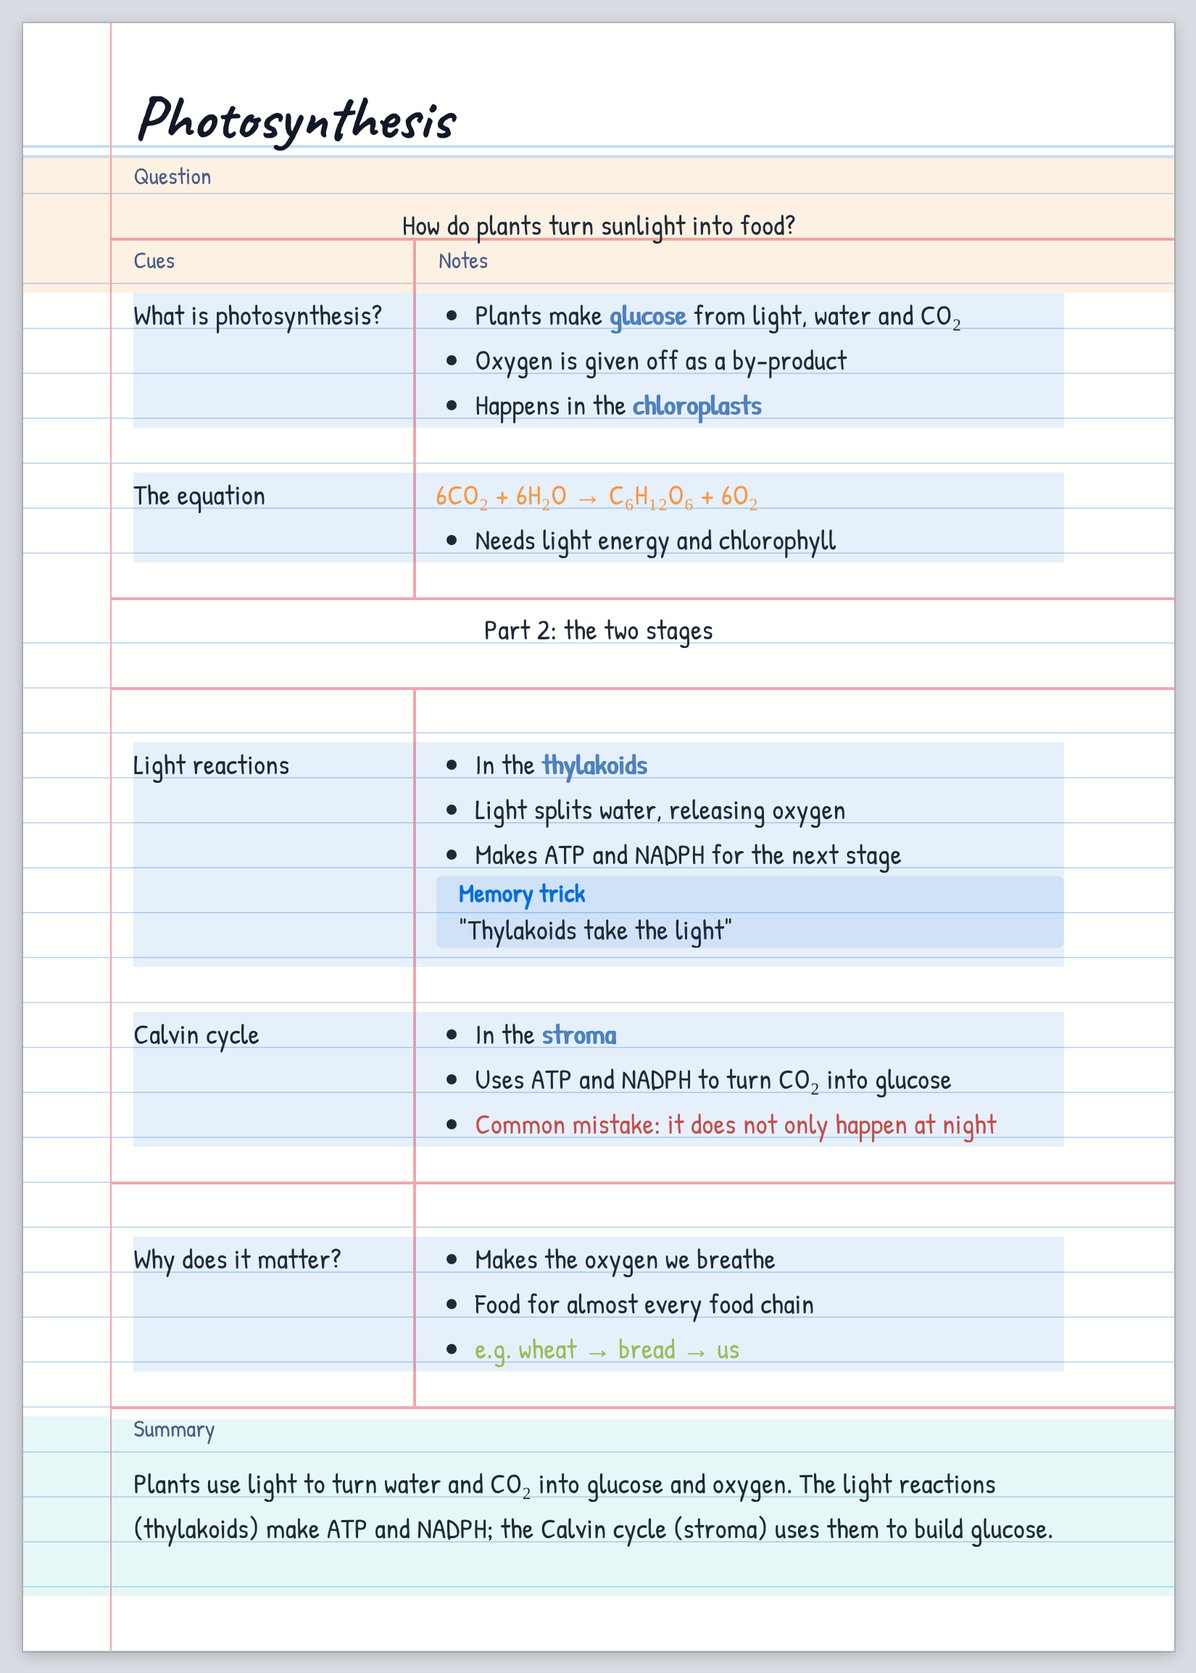
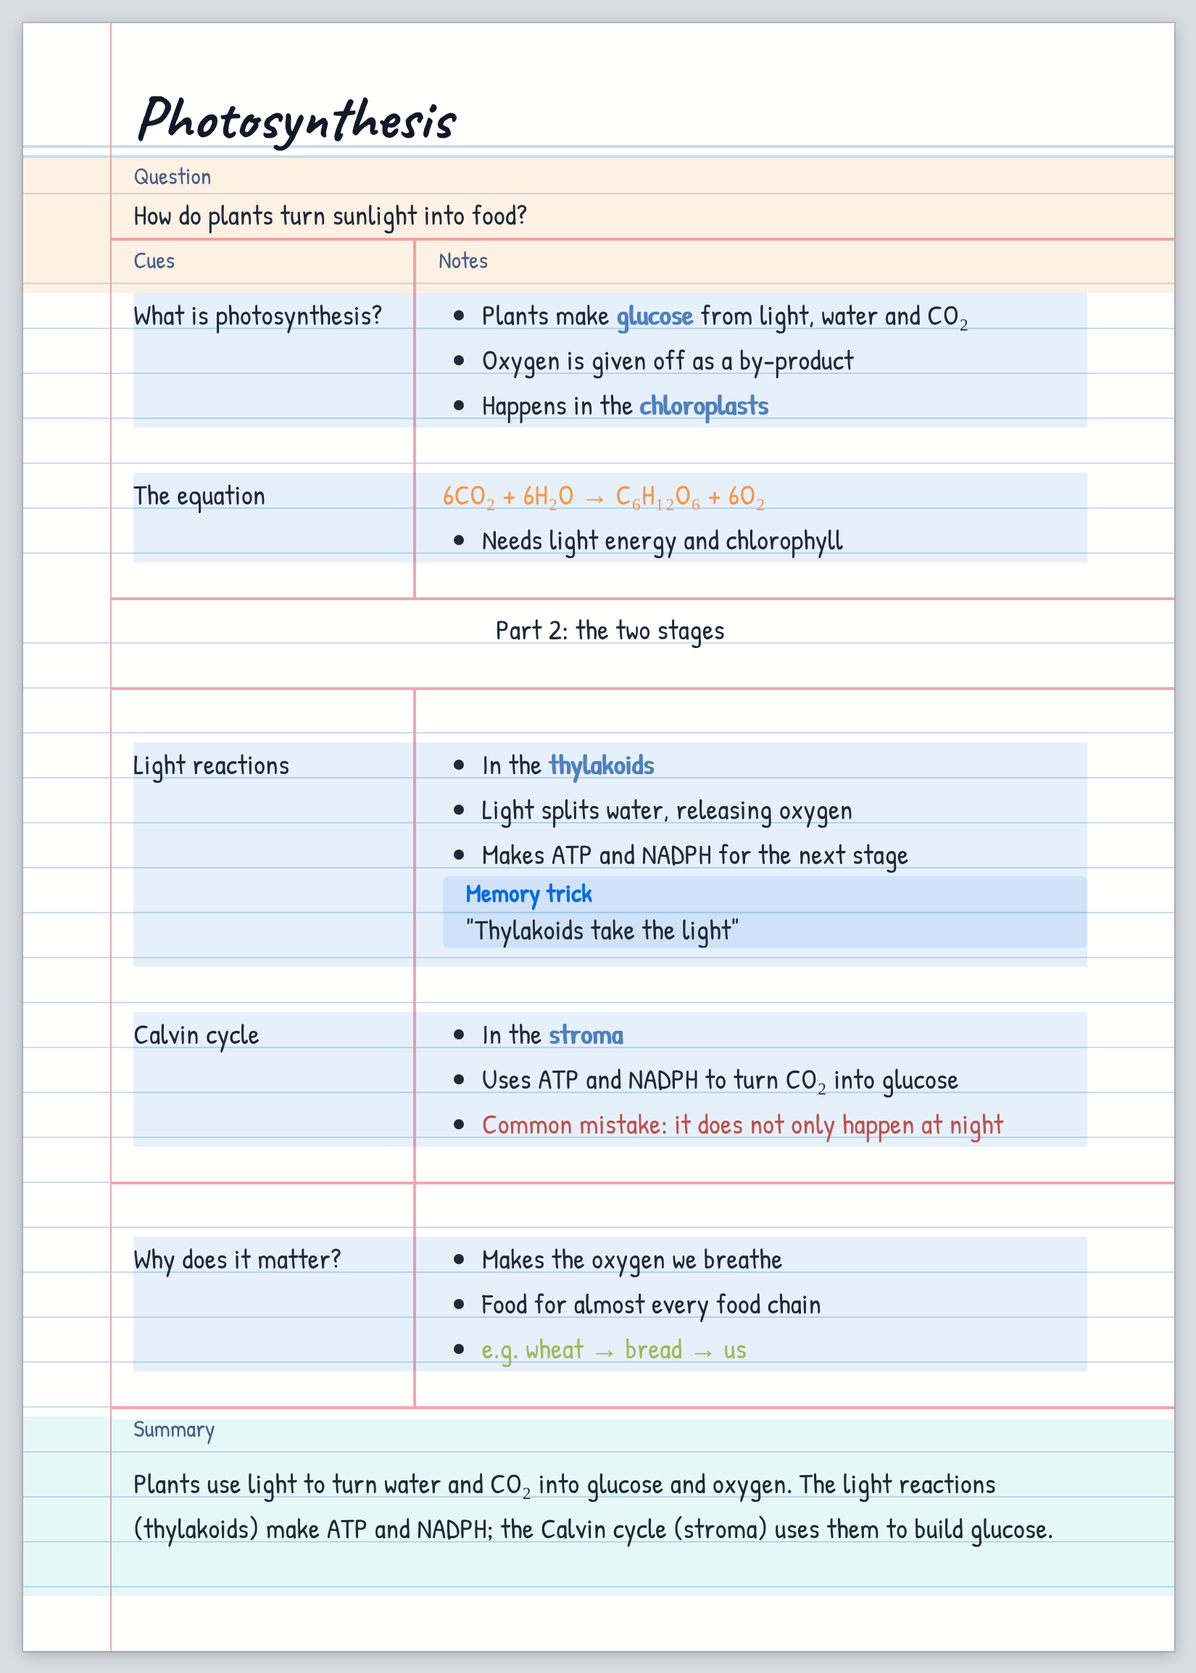
Right margin mirrors the red line's margin; question lines centred in their own row
Claude-Session: https://claude.ai/code/session_017nigWqws9EFca1zJKhGji6

diff --git a/styles.css b/styles.css
@@ -146,11 +146,21 @@ settings:
         step: 0.05
     -
         id: lp-pad-x
-        title: Page margin (left and right)
-        description: Space from the page edge to the text. The red margin line sits "Margin line gap" to the left of the text.
+        title: Page margin (left)
+        description: Space from the left page edge to the text. The red margin line sits "Margin line gap" to the left of the text.
         type: variable-number-slider
         default: 76
         min: 40
+        max: 200
+        step: 2
+        format: px
+    -
+        id: lp-pad-r
+        title: Page margin (right)
+        description: Space from the text to the right page edge. By default the same as the red margin line's distance from the left edge, so a double-sided page can be hole-punched on either side.
+        type: variable-number-slider
+        default: 60
+        min: 20
         max: 200
         step: 2
         format: px
@@ -516,6 +526,8 @@ settings:
   --pad-x: var(--lp-pad-x, 76px);            /* page edge → text */
   --margin-gap: var(--lp-margin-gap, 16px);  /* red line → text */
   --margin-x: calc(var(--pad-x) - var(--margin-gap));   /* where the red line is (derived) */
+  --pad-r: var(--lp-pad-r, var(--margin-x));  /* text → right page edge: the red line's margin mirrored, so a
+                                                 double-sided page can be hole-punched on either side */
 
   --hand: var(--lp-hand, "Patrick Hand"), "Segoe Print", "Bradley Hand", "Chalkboard SE", cursive;
   --hand-title: var(--lp-hand-title, "Caveat"), "Patrick Hand", "Segoe Print", "Bradley Hand", cursive;
@@ -585,7 +597,7 @@ settings:
   max-width: none !important;
   width: 100% !important;
   margin: 0 !important;
-  padding: 0 var(--pad-x) var(--line) !important;
+  padding: 0 var(--pad-r) var(--line) var(--pad-x) !important;
   box-sizing: border-box;
 }
 
@@ -1047,7 +1059,7 @@ settings:
   display: block;
   box-sizing: border-box;
   height: calc(var(--line) * var(--bar-lines));
-  margin: 0 calc(var(--pad-x) * -1) !important;
+  margin: 0 calc(var(--pad-r) * -1) 0 calc(var(--pad-x) * -1) !important;
   padding: var(--title-drop) 200px 0 var(--pad-x) !important;   /* (top: the title sits low, on its line) */
   line-height: calc(var(--line) * (var(--bar-lines) - 0.4)) !important;
   background-color: var(--bar);
@@ -1144,7 +1156,8 @@ html body .lined-paper h1.lp-title-wrap.lp-title-wrap {
     min-height: calc(297mm - 1px) !important;            /* one full page, so a summary sits at its bottom */
     overflow: visible !important;
     margin: 0 !important;
-    padding: var(--head-h) var(--pad-x) calc(var(--tail-print) - 0.5px) !important;
+    padding: var(--head-h) var(--pad-r) calc(var(--tail-print) - 0.5px) var(--pad-x) !important;
+    padding-right: calc(var(--pad-r) + var(--print-trim, 0.25px)) !important;   /* (the PDF's text is a hair narrower than on screen: a line that only just fits on screen wraps in the PDF too) */
     -webkit-box-decoration-break: clone;
     box-decoration-break: clone;
     background: var(--paper) !important;   /* plain colour; the lines are the fixed layer below */
@@ -2975,11 +2988,6 @@ settings:
         description: The text of [!question] starts on the left. Switch this on to centre it on the line.
         type: class-toggle
     -
-        id: cn-question-top
-        title: Question on its first line
-        description: The text of [!question] is centred in the height of its rows. Switch this on to start it on the first row instead (useful with more than one question line).
-        type: class-toggle
-    -
         id: cn-wide-left
         title: Full-width lines on the left
         description: The text of [!wide] is centred. Switch this on to start it on the left instead.
@@ -3411,7 +3419,7 @@ settings:
   z-index: 15;
   box-sizing: border-box;
   min-height: calc(var(--line) * (var(--summary-lines) + 1));
-  padding: 0 var(--pad-x) !important;
+  padding: 0 var(--pad-r) 0 var(--pad-x) !important;
   /* the page's red margin line keeps running through the summary;
      the cue/notes divider stops at the summary's rule */
   background:
@@ -3499,8 +3507,8 @@ settings:
   display: block;
   box-sizing: border-box;
   min-height: calc(var(--line) * (var(--question-lines) + 2));
-  margin: 0 calc(var(--pad-x) * -1) !important;
-  padding: 0 var(--pad-x) var(--line) !important;
+  margin: 0 calc(var(--pad-r) * -1) 0 calc(var(--pad-x) * -1) !important;
+  padding: 0 var(--pad-r) var(--line) var(--pad-x) !important;
   border: 0 !important;
   border-radius: 0;
   mix-blend-mode: normal;
@@ -3562,8 +3570,8 @@ settings:
   display: block;
   box-sizing: border-box;
   min-height: calc(var(--line) * var(--wide-lines));
-  margin: var(--line) calc(var(--pad-x) * -1) !important;
-  padding: 0 var(--pad-x) !important;
+  margin: var(--line) calc(var(--pad-r) * -1) var(--line) calc(var(--pad-x) * -1) !important;
+  padding: 0 var(--pad-r) 0 var(--pad-x) !important;
   border: 0 !important;
   border-radius: 0 !important;
   mix-blend-mode: normal !important;
@@ -4105,7 +4113,7 @@ html body .lined-paper .callout.callout.callout[data-callout="divider"] {
   min-height: 0 !important;
   /* (1px of padding keeps the blank line above and the one below apart: a box with nothing in it
      would merge them into one) */
-  margin: var(--line) calc(var(--pad-x) * -1) calc(var(--line) - 1px) !important;
+  margin: var(--line) calc(var(--pad-r) * -1) calc(var(--line) - 1px) calc(var(--pad-x) * -1) !important;
   padding: 1px 0 0 !important;
   border: 0 !important;
   border-radius: 0 !important;
@@ -4146,8 +4154,8 @@ html body .markdown-source-view.lined-paper .callout.callout.callout[data-callou
    THE QUESTION AND FULL-WIDTH LINES: ALIGNMENT
    =====================================================================
    [!wide]: centred on the page ("Full-width lines on the left" puts it back on the left).
-   [!question]: on the left, in the middle of its rows ("Centre the question across the page" centres
-   it on the line; "Question on its first line" starts it on the first row instead of the middle rows).
+   [!question]: on the left, each line in the middle of its row ("Centre the question across the
+   page" centres it on the line).
    A list in them keeps its bullets next to its text. Callouts inside them keep their own alignment. */
 :is(body:not(.cn-wide-left) .lined-paper.cornell .callout[data-callout="wide"], body.cn-question-centre .lined-paper.cornell .callout[data-callout="question"]) > .callout-content > :is(p, h2, h3, h4, h5, h6, ul, ol) {
   text-align: center !important;
@@ -4160,22 +4168,12 @@ html body .markdown-source-view.lined-paper .callout.callout.callout[data-callou
   text-align: center !important;
 }
 
-/* The question's text is centred in the height: its lines fill the rows between the "Question"
-   label and the red rule, the text in the middle of them, each line centred between its two ruled
-   lines (not sitting on the lower one) */
+/* The question's text is centred in the height of the row it is on: each line in the middle
+   between its two ruled lines (not sitting on the lower one), starting on the first row */
 .markdown-preview-view.lined-paper.cornell .callout[data-callout="question"] > .callout-content {
-  display: flex;
-  flex-direction: column;
-  justify-content: center;
-  box-sizing: border-box;
-  min-height: calc(var(--line) * var(--question-lines));
   position: relative;
   top: var(--title-nudge);
 }
 .markdown-preview-view.lined-paper.cornell .callout[data-callout="question"] > .callout-content > * {
   margin-block: 0 !important;
-}
-/* "Question on its first line": the text starts on the first row (each line still in the middle of its row) */
-body.cn-question-top .markdown-preview-view.lined-paper.cornell .callout[data-callout="question"] > .callout-content {
-  justify-content: flex-start;
 }

diff --git a/snippets/cornell-notes.css b/snippets/cornell-notes.css
@@ -132,11 +132,6 @@ settings:
         description: The text of [!question] starts on the left. Switch this on to centre it on the line.
         type: class-toggle
     -
-        id: cn-question-top
-        title: Question on its first line
-        description: The text of [!question] is centred in the height of its rows. Switch this on to start it on the first row instead (useful with more than one question line).
-        type: class-toggle
-    -
         id: cn-wide-left
         title: Full-width lines on the left
         description: The text of [!wide] is centred. Switch this on to start it on the left instead.
@@ -568,7 +563,7 @@ settings:
   z-index: 15;
   box-sizing: border-box;
   min-height: calc(var(--line) * (var(--summary-lines) + 1));
-  padding: 0 var(--pad-x) !important;
+  padding: 0 var(--pad-r) 0 var(--pad-x) !important;
   /* the page's red margin line keeps running through the summary;
      the cue/notes divider stops at the summary's rule */
   background:
@@ -656,8 +651,8 @@ settings:
   display: block;
   box-sizing: border-box;
   min-height: calc(var(--line) * (var(--question-lines) + 2));
-  margin: 0 calc(var(--pad-x) * -1) !important;
-  padding: 0 var(--pad-x) var(--line) !important;
+  margin: 0 calc(var(--pad-r) * -1) 0 calc(var(--pad-x) * -1) !important;
+  padding: 0 var(--pad-r) var(--line) var(--pad-x) !important;
   border: 0 !important;
   border-radius: 0;
   mix-blend-mode: normal;
@@ -719,8 +714,8 @@ settings:
   display: block;
   box-sizing: border-box;
   min-height: calc(var(--line) * var(--wide-lines));
-  margin: var(--line) calc(var(--pad-x) * -1) !important;
-  padding: 0 var(--pad-x) !important;
+  margin: var(--line) calc(var(--pad-r) * -1) var(--line) calc(var(--pad-x) * -1) !important;
+  padding: 0 var(--pad-r) 0 var(--pad-x) !important;
   border: 0 !important;
   border-radius: 0 !important;
   mix-blend-mode: normal !important;
@@ -1262,7 +1257,7 @@ html body .lined-paper .callout.callout.callout[data-callout="divider"] {
   min-height: 0 !important;
   /* (1px of padding keeps the blank line above and the one below apart: a box with nothing in it
      would merge them into one) */
-  margin: var(--line) calc(var(--pad-x) * -1) calc(var(--line) - 1px) !important;
+  margin: var(--line) calc(var(--pad-r) * -1) calc(var(--line) - 1px) calc(var(--pad-x) * -1) !important;
   padding: 1px 0 0 !important;
   border: 0 !important;
   border-radius: 0 !important;
@@ -1303,8 +1298,8 @@ html body .markdown-source-view.lined-paper .callout.callout.callout[data-callou
    THE QUESTION AND FULL-WIDTH LINES: ALIGNMENT
    =====================================================================
    [!wide]: centred on the page ("Full-width lines on the left" puts it back on the left).
-   [!question]: on the left, in the middle of its rows ("Centre the question across the page" centres
-   it on the line; "Question on its first line" starts it on the first row instead of the middle rows).
+   [!question]: on the left, each line in the middle of its row ("Centre the question across the
+   page" centres it on the line).
    A list in them keeps its bullets next to its text. Callouts inside them keep their own alignment. */
 :is(body:not(.cn-wide-left) .lined-paper.cornell .callout[data-callout="wide"], body.cn-question-centre .lined-paper.cornell .callout[data-callout="question"]) > .callout-content > :is(p, h2, h3, h4, h5, h6, ul, ol) {
   text-align: center !important;
@@ -1317,22 +1312,12 @@ html body .markdown-source-view.lined-paper .callout.callout.callout[data-callou
   text-align: center !important;
 }
 
-/* The question's text is centred in the height: its lines fill the rows between the "Question"
-   label and the red rule, the text in the middle of them, each line centred between its two ruled
-   lines (not sitting on the lower one) */
+/* The question's text is centred in the height of the row it is on: each line in the middle
+   between its two ruled lines (not sitting on the lower one), starting on the first row */
 .markdown-preview-view.lined-paper.cornell .callout[data-callout="question"] > .callout-content {
-  display: flex;
-  flex-direction: column;
-  justify-content: center;
-  box-sizing: border-box;
-  min-height: calc(var(--line) * var(--question-lines));
   position: relative;
   top: var(--title-nudge);
 }
 .markdown-preview-view.lined-paper.cornell .callout[data-callout="question"] > .callout-content > * {
   margin-block: 0 !important;
-}
-/* "Question on its first line": the text starts on the first row (each line still in the middle of its row) */
-body.cn-question-top .markdown-preview-view.lined-paper.cornell .callout[data-callout="question"] > .callout-content {
-  justify-content: flex-start;
 }

diff --git a/snippets/lined-paper.css b/snippets/lined-paper.css
@@ -77,11 +77,21 @@ settings:
         step: 0.05
     -
         id: lp-pad-x
-        title: Page margin (left and right)
-        description: Space from the page edge to the text. The red margin line sits "Margin line gap" to the left of the text.
+        title: Page margin (left)
+        description: Space from the left page edge to the text. The red margin line sits "Margin line gap" to the left of the text.
         type: variable-number-slider
         default: 76
         min: 40
+        max: 200
+        step: 2
+        format: px
+    -
+        id: lp-pad-r
+        title: Page margin (right)
+        description: Space from the text to the right page edge. By default the same as the red margin line's distance from the left edge, so a double-sided page can be hole-punched on either side.
+        type: variable-number-slider
+        default: 60
+        min: 20
         max: 200
         step: 2
         format: px
@@ -448,6 +458,8 @@ settings:
   --pad-x: var(--lp-pad-x, 76px);            /* page edge → text */
   --margin-gap: var(--lp-margin-gap, 16px);  /* red line → text */
   --margin-x: calc(var(--pad-x) - var(--margin-gap));   /* where the red line is (derived) */
+  --pad-r: var(--lp-pad-r, var(--margin-x));  /* text → right page edge: the red line's margin mirrored, so a
+                                                 double-sided page can be hole-punched on either side */
 
   --hand: var(--lp-hand, "Patrick Hand"), "Segoe Print", "Bradley Hand", "Chalkboard SE", cursive;
   --hand-title: var(--lp-hand-title, "Caveat"), "Patrick Hand", "Segoe Print", "Bradley Hand", cursive;
@@ -517,7 +529,7 @@ settings:
   max-width: none !important;
   width: 100% !important;
   margin: 0 !important;
-  padding: 0 var(--pad-x) var(--line) !important;
+  padding: 0 var(--pad-r) var(--line) var(--pad-x) !important;
   box-sizing: border-box;
 }
 
@@ -979,7 +991,7 @@ settings:
   display: block;
   box-sizing: border-box;
   height: calc(var(--line) * var(--bar-lines));
-  margin: 0 calc(var(--pad-x) * -1) !important;
+  margin: 0 calc(var(--pad-r) * -1) 0 calc(var(--pad-x) * -1) !important;
   padding: var(--title-drop) 200px 0 var(--pad-x) !important;   /* (top: the title sits low, on its line) */
   line-height: calc(var(--line) * (var(--bar-lines) - 0.4)) !important;
   background-color: var(--bar);
@@ -1076,7 +1088,8 @@ html body .lined-paper h1.lp-title-wrap.lp-title-wrap {
     min-height: calc(297mm - 1px) !important;            /* one full page, so a summary sits at its bottom */
     overflow: visible !important;
     margin: 0 !important;
-    padding: var(--head-h) var(--pad-x) calc(var(--tail-print) - 0.5px) !important;
+    padding: var(--head-h) var(--pad-r) calc(var(--tail-print) - 0.5px) var(--pad-x) !important;
+    padding-right: calc(var(--pad-r) + var(--print-trim, 0.25px)) !important;   /* (the PDF's text is a hair narrower than on screen: a line that only just fits on screen wraps in the PDF too) */
     -webkit-box-decoration-break: clone;
     box-decoration-break: clone;
     background: var(--paper) !important;   /* plain colour; the lines are the fixed layer below */

diff --git a/main.js b/main.js
@@ -60,8 +60,6 @@ const SETTINGS = [
     desc: 'When the notes need the room, the summary shrinks, but never below this (or below its text). If that does not fit, it moves to a new page.' },
   { key: 'question-centre', type: 'toggle', cls: 'cn-question-centre', def: false, name: 'Centre the question across the page',
     desc: 'The text of [!question] in the middle of the line. Off: it starts on the left.' },
-  { key: 'question-middle', type: 'toggle', cls: 'cn-question-top', invert: true, def: true, name: 'Centre the question in its lines',
-    desc: 'The text of [!question] in the middle of its rows, between the "Question" label and the red line. Off: it starts on the first row (this matters with more than one question line).' },
   { key: 'centre', type: 'toggle', cls: 'cn-wide-left', invert: true, def: true, name: 'Centre full-width lines',
     desc: 'The text of [!wide] in the middle of the page. Off: it starts on the left.' },
   { key: 'cn-wide-lines', type: 'slider', min: 1, max: 6, step: 1, def: 2, name: 'Full-width block lines',
@@ -95,7 +93,9 @@ const SETTINGS = [
   { key: 'lp-foot-ratio', type: 'slider', min: 0, max: 1, step: 0.01, def: 0.11, pct: true, name: 'Footer height',
     desc: 'Blank space at the bottom of each page, as a share of the title bar.' },
   { key: 'lp-sheet-gap', type: 'slider', min: 0, max: 80, step: 1, def: 24, unit: 'px', name: 'Gap between pages' },
-  { key: 'lp-pad-x', type: 'slider', min: 40, max: 200, step: 1, def: 76, unit: 'px', name: 'Page margin (left and right)' },
+  { key: 'lp-pad-x', type: 'slider', min: 40, max: 200, step: 1, def: 76, unit: 'px', name: 'Page margin (left)' },
+  { key: 'lp-pad-r', type: 'slider', min: 20, max: 200, step: 1, def: 60, unit: 'px', name: 'Page margin (right)',
+    desc: 'Space from the text to the right page edge. By default the red margin line\'s distance from the left edge, mirrored, so a double-sided page can be hole-punched on either side.' },
   { key: 'lp-margin-gap', type: 'slider', min: 6, max: 40, step: 1, def: 16, unit: 'px', name: 'Gap after the red margin line' },
   { key: 'lp-line', type: 'slider', min: 24, max: 60, step: 1, def: 36, unit: 'px', name: 'Line height without A4 pages',
     desc: 'Only used when "A4 pages in reading view" is off, and while editing.' },

diff --git a/docs/settings.md b/docs/settings.md
@@ -6,10 +6,10 @@ button to put it back to its default, and **Reset all** resets everything.
 | Section | Settings |
 |---|---|
 | **Pages and text** | A4 pages in reading view (on/off) · Lines per page · Text size · Title size · Title position · Handwriting font · Title font · Underline links |
-| **Cornell notes** | Cue column width · Essential question lines (1) · Centre the question across the page (off) · Centre the question in its lines (on) · Centre full-width lines · Summary height · Summary minimum height · Full-width block lines · Column labels · Labels on page 2, 3 … |
+| **Cornell notes** | Cue column width · Essential question lines (1) · Centre the question across the page (off) · Centre full-width lines · Summary height · Summary minimum height · Full-width block lines · Column labels · Labels on page 2, 3 … |
 | **Callouts** | Callout box height (80 %) · Callout text size |
 | **Colours** | Paper · Ruled lines · Red margin line & divider · Text · Title · Labels · Heading underline · Desk |
-| **Advanced** *(hidden until you switch it on)* | Page height used · Text scale on the A4 page · Title bar height · Footer · Gap between pages · Page margins · Ruled line position · Callout lift · Divider spacing · … |
+| **Advanced** *(hidden until you switch it on)* | Page height used · Text scale on the A4 page · Title bar height · Footer · Gap between pages · Page margins (left, and right: by default the same as the red line's margin, for hole punching) · Ruled line position · Callout lift · Divider spacing · … |
 
 **Fonts:** pick the handwriting and title fonts from a list: Patrick Hand, Caveat, Kalam,
 Indie Flower, Shadows Into Light, Architects Daughter, Gloria Hallelujah, Handlee, Gochi Hand,

diff --git a/CHANGELOG.md b/CHANGELOG.md
@@ -6,6 +6,15 @@ All notable changes to this project are documented here. The format follows
 
 ## [Unreleased]
 
+## [1.9.5] - 2026-10-26
+
+### Changed
+- The writing reaches further right: the right margin is the red margin line's distance from the
+  left edge, mirrored, so double-sided pages can be hole-punched on either side (new setting:
+  *Page margin (right)*; *Page margin* is now *Page margin (left)*).
+- `[!question]` text: each line is centred in the height of its own row, starting on the first
+  row. The *Centre the question in its lines* setting from 1.9.4 is gone.
+
 ## [1.9.4] - 2026-10-26
 
 ### Added
@@ -163,7 +172,8 @@ All notable changes to this project are documented here. The format follows
 1.0 – 1.6: lined paper and Cornell snippets, A4 pagination in reading view, the summary at the
 bottom of the last page, callouts and pictures on the rows, reading view matching the PDF export.
 
-[Unreleased]: ../../compare/1.9.4...HEAD
+[Unreleased]: ../../compare/1.9.5...HEAD
+[1.9.5]: ../../compare/1.9.4...1.9.5
 [1.9.4]: ../../compare/1.9.3...1.9.4
 [1.9.3]: ../../compare/1.9.2...1.9.3
 [1.9.2]: ../../compare/1.9.1...1.9.2

diff --git a/docs/writing-notes.md b/docs/writing-notes.md
@@ -48,9 +48,8 @@ Every Cornell block is a callout. Put a blank line between blocks.
 ```
 
 It keeps **1 line** for the question (more in the settings, or more if the question is longer). Its
-text starts on the left and sits in the middle of its lines, between the "Question" label and the
-red line (*Centre the question across the page* and *Centre the question in its lines* in the
-settings change this).
+text starts on the left, each line centred in the height of its own row (*Centre the question
+across the page* in the settings centres it on the line).
 
 ### Cue + notes *(as many as you like)*
 
